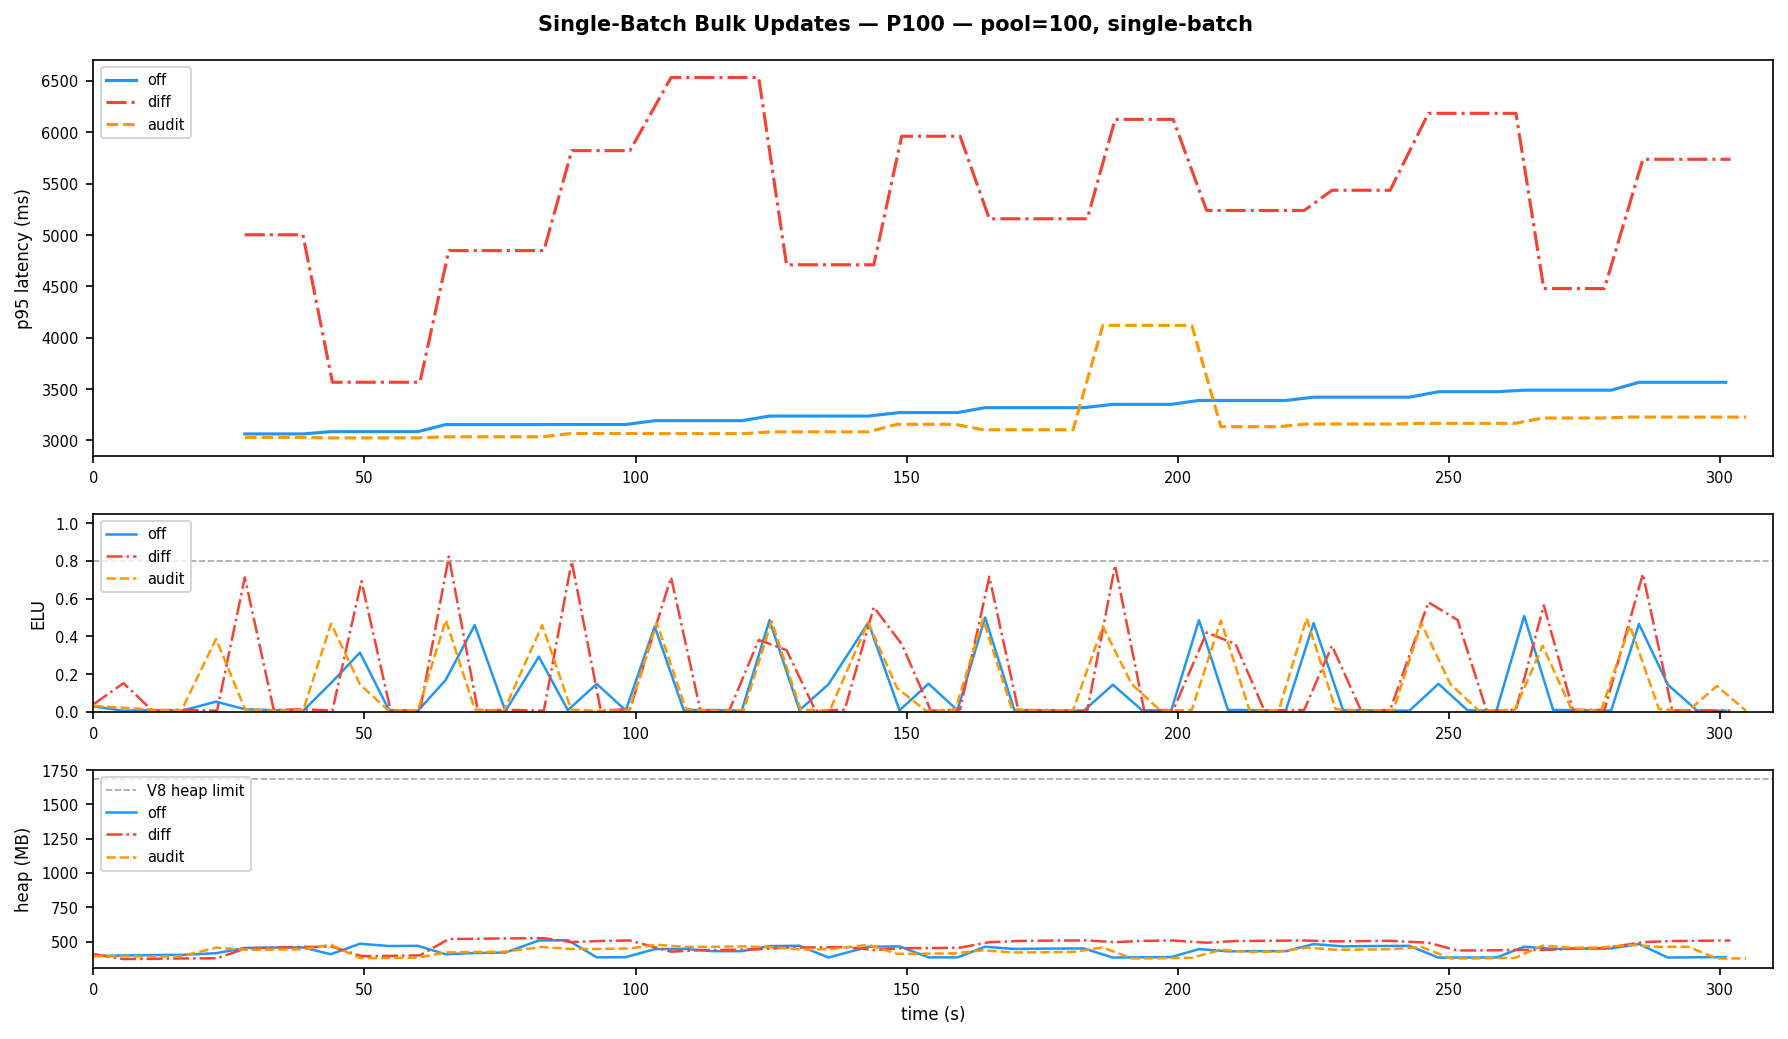
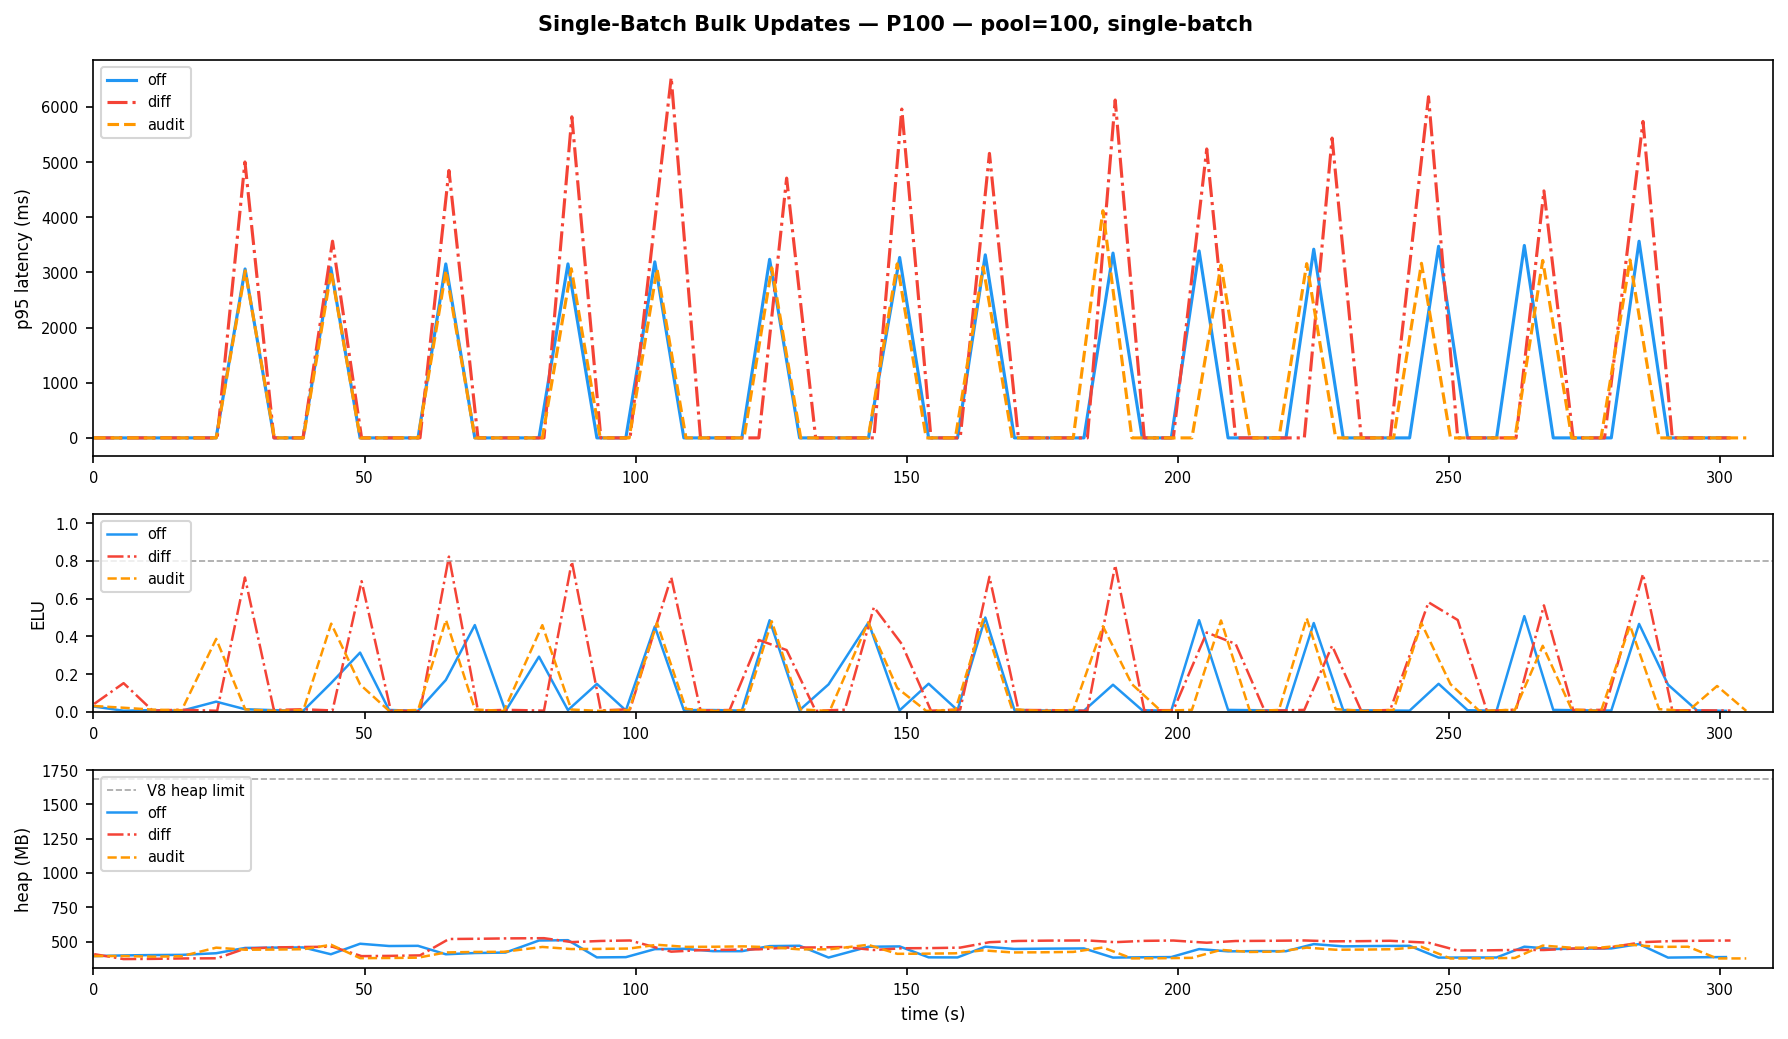
Revert to raw winP95 values; add note explaining sparse p95 latency charts

diff --git a/results/comparison_report.md b/results/comparison_report.md
@@ -34,6 +34,8 @@ Three server conditions tested across five matrix scripts.
 | **heap peak** | Maximum V8 heap usage recorded during the run in MB. |
 | **errors** | Count of non-200 HTTP responses (429, 502, 503) or client-side timeouts during the load phase. |
 
+**Note on sparse p95 latency charts:** The p95 latency subplot in each time-series chart shows the rolling window p95 — the 95th-percentile latency of all requests that completed within each ~5 s polling interval. At low request rates (3 RPM = one request every 20 s, 10 RPM = one every 6 s) most polling windows contain no completed requests, so the p95 reads as 0 and the line hugs the x-axis between spikes. This is expected behaviour, not missing data — the spikes are the actual latency observations.
+
 ---
 
 ## Aggregations
